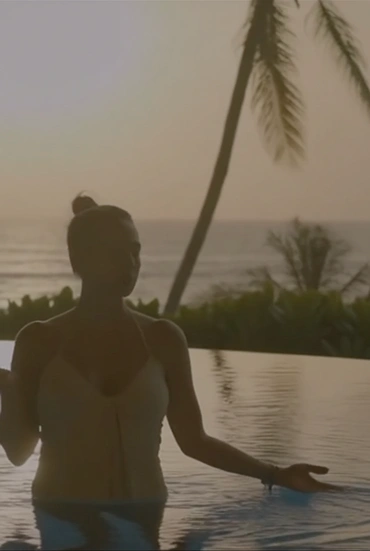
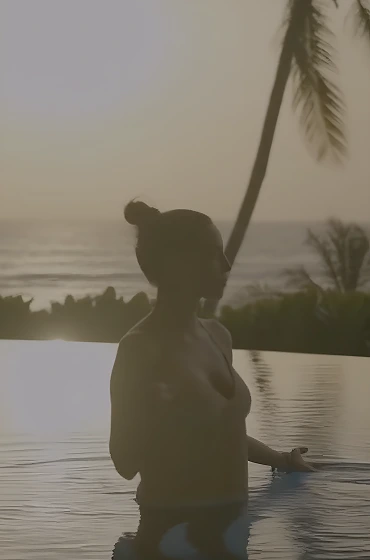
fix lcp and prewritten

diff --git a/src/components/ui/hero-mobile.tsx b/src/components/ui/hero-mobile.tsx
@@ -1,31 +1,55 @@
 "use client";
 
-import { useRef, useEffect } from "react";
+import Image from "next/image";
+import { useRef, useEffect, useState } from "react";
 
 export const HeroMobile = () => {
   const videoRef = useRef<HTMLVideoElement>(null);
+  const [videoLoaded, setVideoLoaded] = useState(false);
 
   useEffect(() => {
     const video = videoRef.current;
     if (!video) return;
 
-    video.muted = true; // must be set programmatically for Safari
-    video.playsInline = true; // must be set programmatically for Safari
-    video.play().catch(() => {});
+    const playVideo = () => {
+      video.muted = true;
+      video.playsInline = true;
+      video.load();
+      video.play().catch(() => {});
+    };
+
+    if ("requestIdleCallback" in window) {
+      requestIdleCallback(playVideo);
+    } else {
+      // Fallback for Safari which doesn't support requestIdleCallback
+      setTimeout(playVideo, 1000);
+    }
   }, []);
 
   return (
     <section className="relative h-[90vh] w-full flex items-center justify-center overflow-hidden mt-[4.5rem] sm:hidden">
+      {!videoLoaded && (
+        <Image
+          src="/assets/images/mobile-poster.webp"
+          alt="NAD+ Therapy Bali"
+          fill
+          priority
+          className="object-cover"
+          sizes="100vw"
+        />
+      )}
+
       <video
         ref={videoRef}
         loop
         muted
         playsInline
         autoPlay
-        poster="/assets/images/mobile-poster.webp"
-        className="w-full h-[90vh] object-cover"
-        preload="metadata"
-        webkit-playsinline="true"
+        preload="metadata" // Safari needs this
+        onCanPlay={() => setVideoLoaded(true)}
+        className={`absolute inset-0 w-full h-[90vh] object-cover transition-opacity duration-700 ${
+          videoLoaded ? "opacity-100" : "opacity-0"
+        }`}
       >
         <source src="/assets/video/nad-mobile.mp4" type="video/mp4" />
       </video>

diff --git a/src/components/homepage/hero.tsx b/src/components/homepage/hero.tsx
@@ -1,17 +1,13 @@
 "use client";
 
 import { FaWhatsapp } from "react-icons/fa";
-import { dowa } from "@/lib/utils";
-
+import { dowa, getMessage } from "@/lib/utils";
 import Link from "next/link";
 import { HeroMobile } from "../ui/hero-mobile";
 import { HeroDesktop } from "../ui/hero-desktop";
 
 export const Hero = ({ lang, dictionary }: { lang: any; dictionary: any }) => {
-  const message =
-    lang != "id"
-      ? "I would like to book a NAD+ infusion."
-      : "Aku ingin memesan NAD+ infusion.";
+  const message = getMessage("bookNad", lang);
   const konektorCta = "https://chat.revivindonesia.com/wa-click";
   return (
     <>
@@ -34,14 +30,15 @@ export const Hero = ({ lang, dictionary }: { lang: any; dictionary: any }) => {
               </h1>
               <p className="text-gray-500 text-lg">{dictionary.description}</p>
               <div className="grid grid-cols-1 sm:grid-cols-2 items-center gap-4">
-                <Link
-                  href="#"
-                  onClick={() => dowa(message, konektorCta)}
+                <button
+                  onClick={() => {
+                    dowa(message, konektorCta);
+                  }}
                   className="w-full px-6 py-2 cta_btn flex items-center justify-center gap-2"
                 >
                   <FaWhatsapp className="size-5 text-white" />
                   <p className="text-white">{dictionary.ctaBookNow}</p>
-                </Link>
+                </button>
                 <Link
                   href="#our-products"
                   className="w-full bg-white px-6 py-2 rounded-lg border text-center text-black"

diff --git a/src/components/ui/hero-desktop.tsx b/src/components/ui/hero-desktop.tsx
@@ -1,30 +1,46 @@
 "use client";
 
-import { useRef, useEffect } from "react";
+import { useRef, useEffect, useState } from "react";
 
 export const HeroDesktop = () => {
   const videoRef = useRef<HTMLVideoElement>(null);
+  const [videoLoaded, setVideoLoaded] = useState(false);
 
   useEffect(() => {
     const video = videoRef.current;
     if (!video) return;
 
-    video.muted = true; // must be set programmatically for Safari
-    video.playsInline = true; // must be set programmatically for Safari
-    video.play().catch(() => {});
+    const playVideo = () => {
+      video.muted = true;
+      video.playsInline = true;
+      video.load();
+      video.play().catch(() => {});
+    };
+
+    if ("requestIdleCallback" in window) {
+      requestIdleCallback(playVideo);
+    } else {
+      setTimeout(playVideo, 1000);
+    }
   }, []);
 
   return (
     <div className="w-full h-96 md:h-[450px] bg-gray-100 rounded-lg hidden sm:flex items-center justify-center overflow-hidden">
+      {!videoLoaded && (
+        <div className="bg-gray-50 w-full h-full rounded-lg"></div>
+      )}
+
       <video
         ref={videoRef}
         loop
         muted
         playsInline
         autoPlay
-        className="w-full h-full object-cover rounded-lg"
         preload="metadata"
-        webkit-playsinline="true"
+        onCanPlay={() => setVideoLoaded(true)}
+        className={`w-full h-full object-cover rounded-lg transition-opacity duration-700 ${
+          videoLoaded ? "opacity-100" : "opacity-0"
+        }`}
       >
         <source src="/assets/video/nad-desktop.mp4" type="video/mp4" />
       </video>

diff --git a/src/app/[lang]/what-is-nad/page.tsx b/src/app/[lang]/what-is-nad/page.tsx
@@ -2,9 +2,10 @@ import { getDictionary } from "@/server/get-dictionary";
 import { Locale } from "@/i18n-config";
 import Image from "next/image";
 import Link from "next/link";
-import { Pill, Droplets, CheckCircle2, Zap } from "lucide-react";
+import { Pill, Droplets, Zap } from "lucide-react";
 import { FaWhatsapp } from "react-icons/fa";
 import { whatsappNumber } from "@/lib/constant";
+import { BookNow } from "@/components/ui/book-now";
 
 export async function generateMetadata({
   params,
@@ -507,19 +508,10 @@ export default async function WhatIsNadPage(props: {
                 {dictionary.whatIsNadPage.cta.title}
               </h1>
               <div className="flex items-center justify-center gap-6 flex-wrap">
-                <Link
-                  href={`https://wa.me/${whatsappNumber}?text=${encodeURIComponent(
-                    message,
-                  )}`}
-                  target="_blank"
-                  rel="noopener noreferrer"
-                  className="px-6 py-2 cta_btn hover:scale-105 transition-all flex items-center gap-2 w-fit"
-                >
-                  <FaWhatsapp className="size-5 text-white" />
-                  <p className="text-white">
-                    {dictionary.whatIsNadPage.cta.button}
-                  </p>
-                </Link>
+                <BookNow
+                  lang={lang}
+                  dictionary={dictionary.whatIsNadPage.cta.button}
+                />
               </div>
             </div>
           </div>

diff --git a/src/app/layout.tsx b/src/app/layout.tsx
@@ -5,7 +5,7 @@ import "./globals.css";
 // import { SiteFooter } from "@/components/site-footer";
 // import { WhatsappButton } from "@/components/whatsapp-button";
 import { Toaster } from "@/components/ui/toaster";
-import { getDictionary } from "@/server/get-dictionary";
+// import { getDictionary } from "@/server/get-dictionary";
 import { Locale, i18n } from "@/i18n-config";
 import Script from "next/script";
 import { Navbar } from "@/components/navbar";
@@ -24,7 +24,7 @@ export default async function RootLayout({
   params: { lang: Locale };
 }>) {
   const lang = (params.lang as Locale) || i18n.defaultLocale;
-  const dictionary = await getDictionary(lang);
+  // const dictionary = await getDictionary(lang);
 
   return (
     <html lang={lang} suppressHydrationWarning>
@@ -37,7 +37,7 @@ export default async function RootLayout({
           })(window,document,'script','dataLayer','GTM-TDW3L66J');`}
         </Script>
 
-        <link rel="preconnect" href="https://fonts.googleapis.com" />
+        {/* <link rel="preconnect" href="https://fonts.googleapis.com" />
         <link
           rel="preconnect"
           href="https://fonts.gstatic.com"
@@ -46,7 +46,7 @@ export default async function RootLayout({
         <link
           href="https://fonts.googleapis.com/css2?family=Poppins:wght@400;500;600;700&family=PT+Sans:wght@400;700&display=swap"
           rel="stylesheet"
-        />
+        /> */}
         <script
           type="application/ld+json"
           dangerouslySetInnerHTML={{

diff --git a/src/components/ui/book-now.tsx b/src/components/ui/book-now.tsx
@@ -1,7 +1,6 @@
 "use client";
 
-import { dowa } from "@/lib/utils";
-import Link from "next/link";
+import { dowa, getMessage } from "@/lib/utils";
 import { FaWhatsapp } from "react-icons/fa";
 
 export const BookNow = ({
@@ -13,19 +12,17 @@ export const BookNow = ({
   dictionary: any;
   customClass?: string;
 }) => {
-  const message =
-    lang != "id"
-      ? "I would like to book a NAD+ infusion."
-      : "Aku ingin memesan NAD+ infusion.";
+  const message = getMessage("bookNad", lang);
   const konektorCta = "https://chat.revivindonesia.com/wa-click";
   return (
-    <Link
-      href="#"
-      onClick={() => dowa(message, konektorCta)}
+    <button
+      onClick={() => {
+        dowa(message, konektorCta);
+      }}
       className={`${customClass} px-6 py-2 cta_btn flex items-center justify-center gap-2`}
     >
       <FaWhatsapp className="size-5 text-white" />
       <p className="text-white">{dictionary}</p>
-    </Link>
+    </button>
   );
 };

diff --git a/src/components/homepage/banner-cta.tsx b/src/components/homepage/banner-cta.tsx
@@ -1,6 +1,6 @@
 "use client";
 
-import { dowa } from "@/lib/utils";
+import { dowa, getMessage } from "@/lib/utils";
 import { FaWhatsapp } from "react-icons/fa";
 
 export const BannerCta = ({
@@ -10,10 +10,7 @@ export const BannerCta = ({
   lang: any;
   dictionary: any;
 }) => {
-  const message =
-    lang != "id"
-      ? "I would like to book a NAD+ infusion."
-      : "Aku ingin memesan NAD+ infusion.";
+  const message = getMessage("bookNad", lang);
   const konektorCta = "https://chat.revivindonesia.com/wa-click";
   return (
     <section className="px-4 py-10">
@@ -28,8 +25,7 @@ export const BannerCta = ({
             </div>
             <div className="flex flex-col gap-2">
               <button
-                onClick={(e) => {
-                  e.preventDefault();
+                onClick={() => {
                   dowa(message, konektorCta);
                 }}
                 className="px-6 py-2 cta_btn flex items-center gap-2 justify-center"

diff --git a/src/components/homepage/faq.tsx b/src/components/homepage/faq.tsx
@@ -28,11 +28,15 @@ export const Faq = ({ dictionary }: { dictionary: any }) => {
       <div className="max-w-7xl mx-auto">
         <div className="grid grid-cols-1 sm:grid-cols-5 gap-6">
           <div className="flex flex-col gap-6 sm:col-span-2">
-            <p className="text-primary_color uppercase font-medium">FAQ</p>
+            <p className="text-primary_color uppercase font-medium text-center sm:text-start">
+              FAQ
+            </p>
             <h2 className="text-3xl sm:text-4xl font-semibold text-zinc-800 text-center sm:text-start">
               {dictionary.title}
             </h2>
-            <p className="text-gray-500 text-lg">{dictionary.description}</p>
+            <p className="text-gray-500 text-lg text-center sm:text-start">
+              {dictionary.description}
+            </p>
           </div>
           <div className="flex flex-col gap-6 sm:col-span-3">
             <div className="flex flex-col gap-0">

diff --git a/src/app/[lang]/faq/page.tsx b/src/app/[lang]/faq/page.tsx
@@ -5,6 +5,7 @@ import { FaWhatsapp } from "react-icons/fa";
 import { whatsappNumber } from "@/lib/constant";
 import { PlaceHolderImages } from "@/lib/placeholder-images";
 import Image from "next/image";
+import { getMessage } from "@/lib/utils";
 
 export async function generateMetadata({
   params,
@@ -67,10 +68,7 @@ export default async function FaqPage(props: {
 
   const heroImage = PlaceHolderImages.find((img) => img.id === "faq-page");
 
-  const message =
-    lang != "id"
-      ? "Hello revivindonesia.com! I would like to know more about NAD+ therapy."
-      : "Halo revivindonesia.com! Saya ingin tahu lebih lanjut tentang terapi NAD+.";
+  const message = getMessage("moreAboutNad", lang);
 
   const faqs = [
     { question: d.q1, answer: d.a1 },

diff --git a/src/app/[lang]/nad-doctors/page.tsx b/src/app/[lang]/nad-doctors/page.tsx
@@ -72,10 +72,6 @@ export default async function TeamPage(props: {
   const dictionary = await getDictionary(lang);
 
   const heroImage = PlaceHolderImages.find((img) => img.id === "team-hero");
-  const message =
-    lang != "id"
-      ? "Hello revivindonesia.com! I would like to book a NAD+ infusion."
-      : "Halo revivindonesia.com! Aku ingin memesan NAD+ infusion.";
 
   const trusts = [
     {
@@ -387,6 +383,7 @@ export default async function TeamPage(props: {
         </div>
       </section>
 
+      {/* FAQ */}
       <Faq dictionary={dictionary.aiFaqDoctor} />
 
       {/* Internal Link */}

diff --git a/src/components/doctorpage/faq.tsx b/src/components/doctorpage/faq.tsx
@@ -34,7 +34,9 @@ export const Faq = ({ dictionary }: { dictionary: any }) => {
             <h2 className="text-3xl sm:text-4xl font-semibold text-zinc-800 text-center sm:text-start">
               {dictionary.title}
             </h2>
-            <p className="text-gray-500 text-lg">{dictionary.description}</p>
+            <p className="text-gray-500 text-lg text-center sm:text-start">
+              {dictionary.description}
+            </p>
           </div>
           <div className="flex flex-col gap-6 sm:col-span-3">
             <div className="flex flex-col gap-0">

diff --git a/src/components/logo.tsx b/src/components/logo.tsx
@@ -1,8 +1,9 @@
 import Image from "next/image";
+import Link from "next/link";
 
-export function Logo() {
+export function Logo({ lang }: { lang: any }) {
   return (
-    <div className="flex items-center space-x-2">
+    <Link href={`/${lang}`} className="flex items-center space-x-2">
       <Image
         src="/assets/images/logo-reviv.png"
         alt="logo reviv indonesia"
@@ -11,6 +12,6 @@ export function Logo() {
         sizes="100vw"
         className="w-auto h-10 sm:h-12"
       />
-    </div>
+    </Link>
   );
 }
